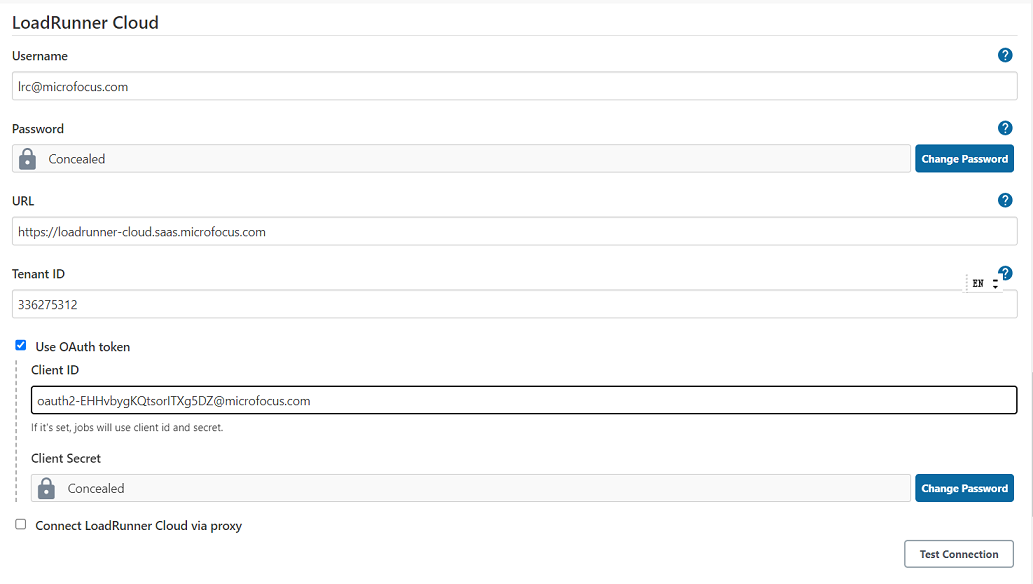
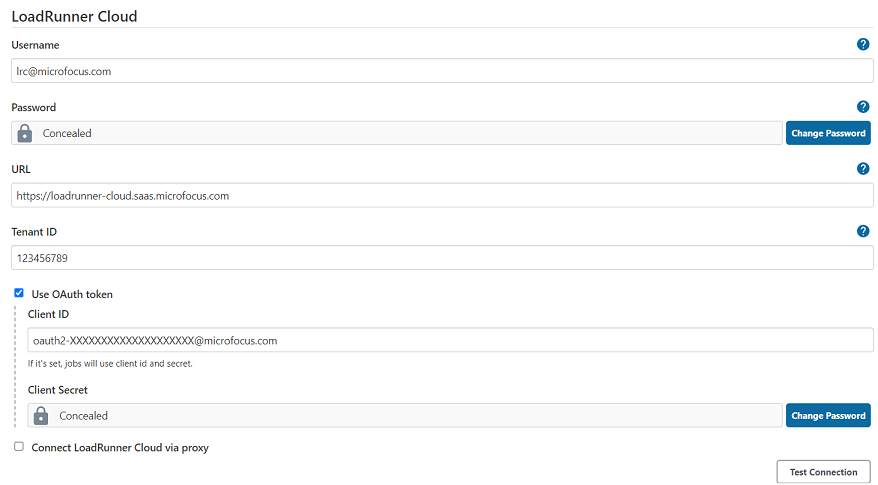
update README and test

diff --git a/src/test/java/com/microfocus/lrc/jenkins/ConfigurationAsCodeTest.java b/src/test/java/com/microfocus/lrc/jenkins/ConfigurationAsCodeTest.java
@@ -84,9 +84,9 @@ public class ConfigurationAsCodeTest {
     }
 
     private static final String USERNAME = "lrc@microfocus.com";
-    private static final String TENANTID = "336275312";
+    private static final String TENANTID = "123456789";
     private static final String URL = "https://loadrunner-cloud.saas.microfocus.com";
     private static final String PROXYHOST = "172.31.128.1";
     private static final String PROXYPORT = "8080";
-    private static final String CLIENT_ID = "oauth2-EHHvbygKQtsorITXg5DZ@microfocus.com";
+    private static final String CLIENT_ID = "oauth2-XXXXXXXXXXXXXXXXXXXX@microfocus.com";
 }

diff --git a/README.md b/README.md
@@ -16,7 +16,7 @@ Both of them are also exposed in pipeline job as `lrcRunTest` and `lrcGenTrendin
   - **Username** and **Password**  
   - If you use [API Access keys](https://admhelp.microfocus.com/lrc/en/Latest/Content/Storm/Admin-APIAccess.htm), select the **Use OAuth token** checkbox, then input **Client Id** and **Client Secret**.
   - **URL**, default: "https://loadrunner-cloud.saas.microfocus.com"
-  - **Tenant Id**, for example: 652261300
+  - **Tenant Id**, for example: 123456789
   - **Proxy** settings (optional). If you need to use a proxy to access LoadRunner Cloud, select **Connect LoadRunner Cloud via proxy** checkbox, then input below fields.
     - Proxy Host	    - The proxy server host name.
     - Proxy Port	    - The proxy server port number.
